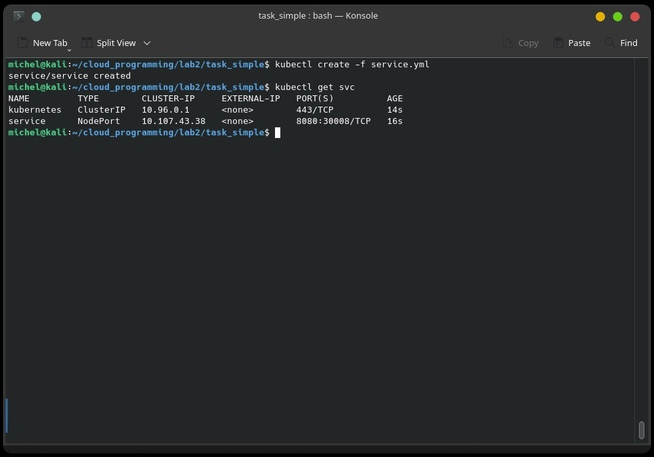
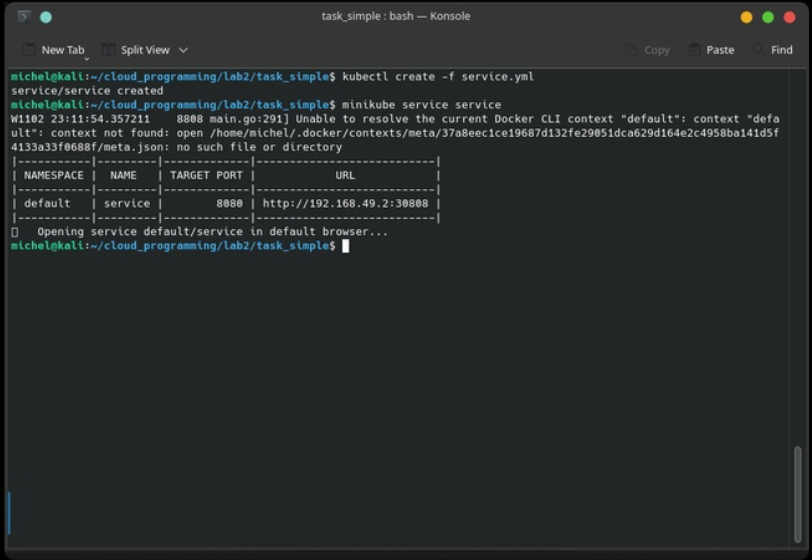
Service update

diff --git a/lab2/README.md b/lab2/README.md
@@ -1,14 +1,14 @@
-## Лабораторная работа №2 "Работа с Kubernetes"
+## Лабораторная работа №2 "Работа с K8s"
 
 ### Цель работы
-Необходимо поднять локально kubernetes кластер, в котором будет развернут сервер.
+Необходимо поднять локально _kubernetes_ кластер, в котором будет развернут сервер.
 
 ### Задачи
-1. Используя 2-3 ресурса k8s, поднять кластер minikube.
+1. Используя 2-3 ресурса _k8s_, поднять кластер _minikube_.
 
 ## Ход работы
 
-Для успешной работы необходимо, чтобы в системе были установлены docker, kubectl и minikube.
+Для успешной работы необходимо, чтобы в системе были установлены _docker_, _kubectl_ и _minikube_.
 
 Запускаем minikube при помощи команды:
 
@@ -18,9 +18,9 @@ minikube start --driver=docker
 
 <p align="center"><img src="https://github.com/Mihail-Larionow/cloud_programming/blob/main/lab2/images/minikube.PNG"/></p>
 
-В миникубе мы попробуем запустить http-сервер, который был поднят в прошлой лабораторной работе. _(P.S. Для удобства образ сервера был выложен на DockerHub.)_
+В миникубе мы попробуем запустить http-сервер, который был поднят в прошлой лабораторной работе. _(P.S. Для удобства образ сервера был выложен на DockerHub)_
 
-Создаем:
+Создадим файл webserver.yml:
 
 ```
 apiVersion: apps/v1
@@ -49,12 +49,13 @@ spec:
           image: larionow/webserver
 ```
 
+В поле _kind_ указан ресурс _Deployment_, который управляет состоянием развертывания подов, описанное в манифесте, а также следит за удалением и созданием их экземпляров.  
+
+Помимо этого, в манифесте в поле _replicas_ мы указали число 2, это означает, что в нашем кластере должно быть создано 2 экземпляра объекта.
+
 <p align="center"><img src="https://github.com/Mihail-Larionow/cloud_programming/blob/main/lab2/images/web-server-create.PNG"/></p>
 
-В поле _kind_ был указан ресурс _Deployment_, который управляет состоянием развертывания подов, описанное в манифесте, а также следит за удалением и созданием их экземпляров.  
-Помимо этого, в манифесте мы указали, что
-
-Создаем сервис:
+Создадим service.yml:
 
 ```
 apiVersion: v1
@@ -64,7 +65,7 @@ metadata:
   name: service
 
 spec:
-  type: NodePort
+  type: LoadBalancer
   ports:
     - targetPort: 8080
       port: 8080
@@ -73,19 +74,17 @@ spec:
     app: webserver
 ```
 
-<p align="center"><img src="https://github.com/Mihail-Larionow/cloud_programming/blob/main/lab2/images/service-create.PNG"/></p>
-
 В качестве сервиса, мы использовали _LoadBalancer_, который распределяет нагрузку сети между нашими репликами, а также обеспечивает высокую доступность и маштабируемость.  
 
 Мы могли, конечно, использовать _NodePort_, но данный сервис используется скорее для тестирования или разработки. Он, так сказать, внутренний балансировщик нагрузки, когда _LoadBalancer_ — внешний.
 
-При помощи команды _minikube service_ находим адрес нашего сервера:
+<p align="center"><img src="https://github.com/Mihail-Larionow/cloud_programming/blob/main/lab2/images/service-create.PNG"/></p>
 
-<p align="center"><img src="https://github.com/Mihail-Larionow/cloud_programming/blob/main/lab2/images/web-server-start.PNG"/></p>
-
-Все работает!
+Перейдем по адресу и проверим работу нашего сервера.
 
 <p align="center"><img src="https://github.com/Mihail-Larionow/cloud_programming/blob/main/lab2/images/web-server-work.PNG"/></p>
+
+Успех! 
 
 ## Вывод
 В ходе лабораторной работы мы локально подняли kubernetes кластер minikub, в котором развернули http сервер. 
